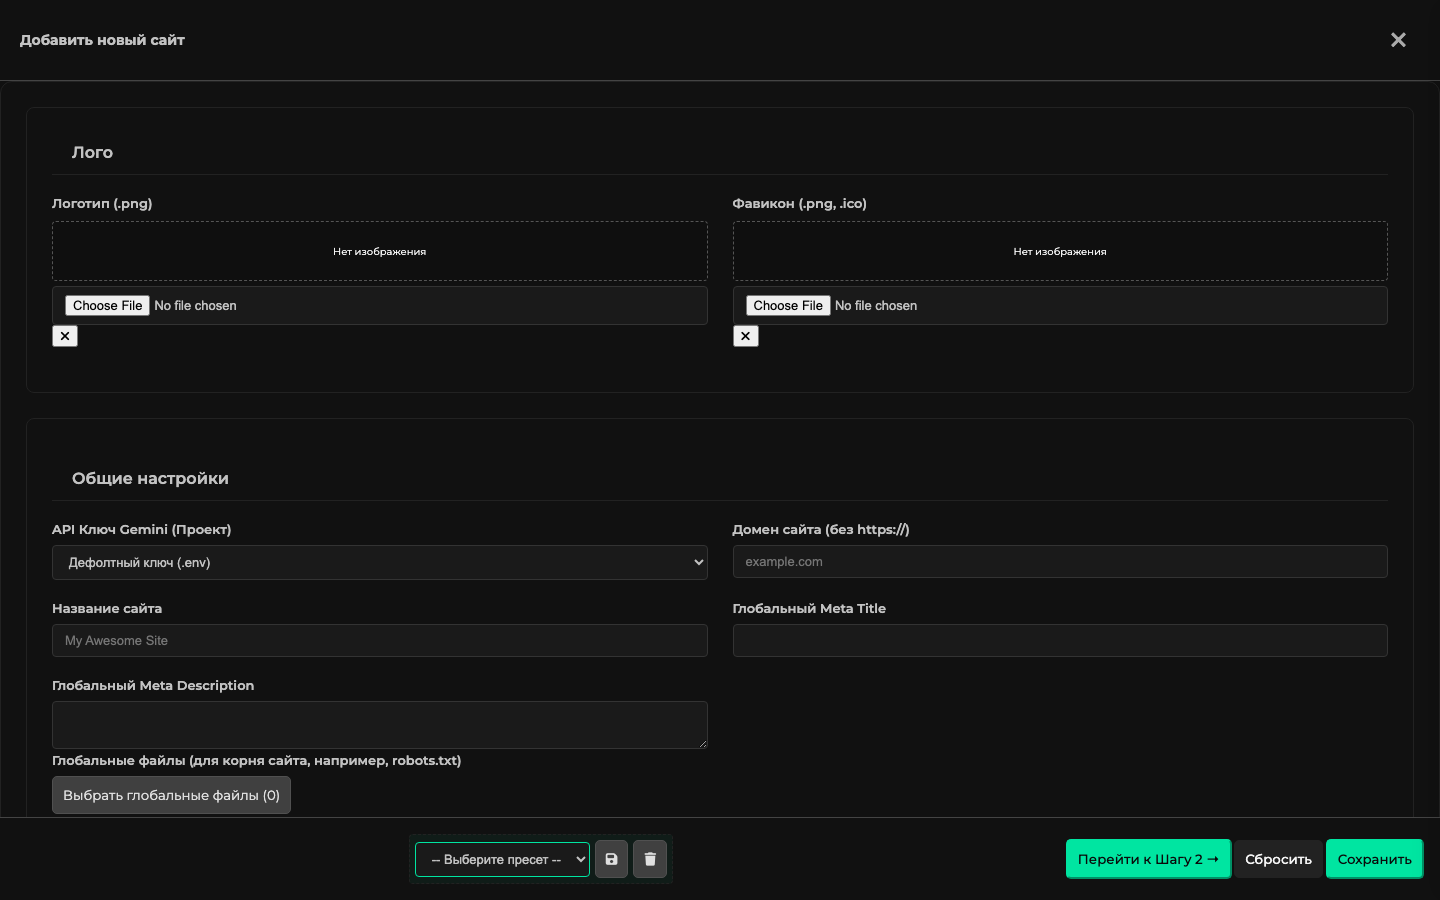
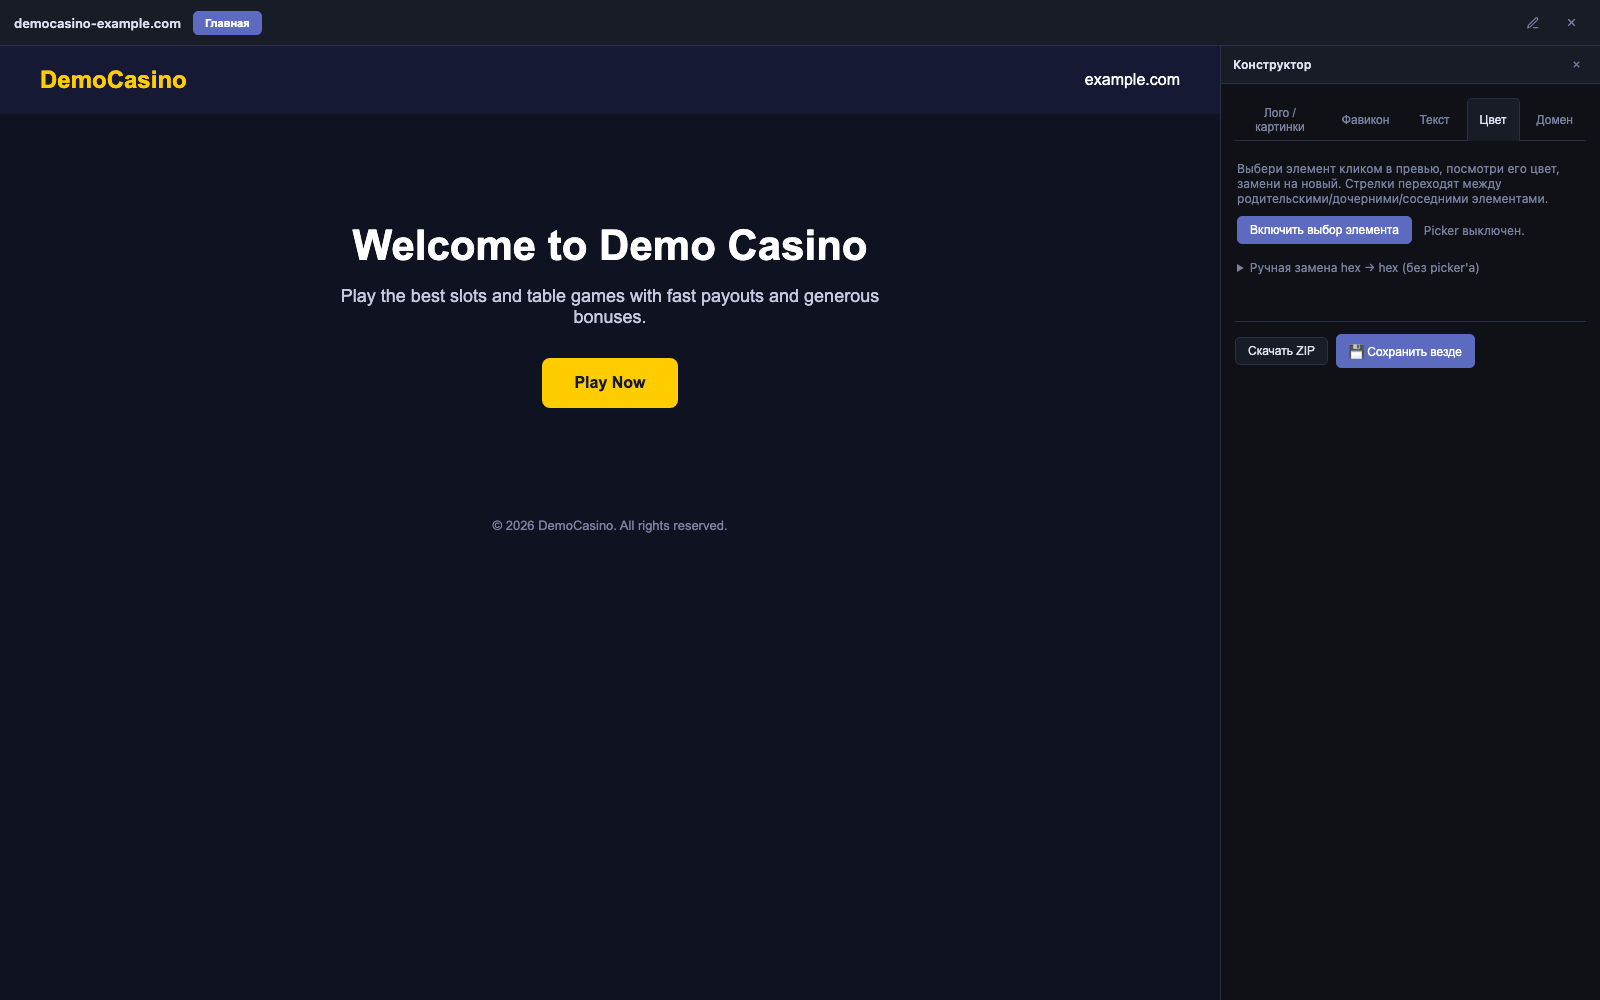
Replace site-creation card with real site-crm uniqualization screenshots
The previous card used diffServ's AI generator UI, not the actual
site-crm tool. Swapped in real screenshots (project tabs, color picker,
domain replace, text find/replace) and rewrote the description to match
what site-crm actually does: Google Sheets-driven multi-project CRM for
bulk site uniqualization with SEO/sitemap checks and Drive sync.

diff --git a/index.html b/index.html
@@ -459,41 +459,46 @@
           </div>
         </div>
         <div class="auto-card auto-card-wide">
-          <div class="auto-card-visual grad-indigo has-screenshot" data-images="./img/projects/sitegen-3.png,./img/projects/sitegen-2.png,./img/projects/sitegen-1.png">
+          <div class="auto-card-visual grad-indigo has-screenshot" data-images="./img/projects/sitegen-2.png,./img/projects/sitegen-3.png,./img/projects/sitegen-4.png,./img/projects/sitegen-1.png">
           </div>
           <div class="auto-card-pipeline">
             <div class="pipeline">
-              <div class="p-step" data-ua="Налаштування">Site Setup</div>
+              <div class="p-step" data-ua="Google Sheets">Google Sheets</div>
               <div class="p-arrow">→</div>
-              <div class="p-step" data-ua="Дизайн і контент">Design & Content</div>
+              <div class="p-step" data-ua="Живе редагування">Live Editing</div>
               <div class="p-arrow">→</div>
-              <div class="p-step" data-ua="AI-генерація">AI Generation</div>
+              <div class="p-step" data-ua="SEO і sitemap перевірка">SEO & Sitemap Check</div>
               <div class="p-arrow">→</div>
-              <div class="p-step p-end" data-ua="Готовий сайт">Live Site</div>
+              <div class="p-step p-end" data-ua="Google Drive">Google Drive</div>
             </div>
           </div>
           <div class="auto-card-content">
             <div class="auto-card-badges">
               <span class="badge badge-nda" data-ua="NDA · Продакшн">NDA · Production</span>
-              <span class="badge badge-stack">Node.js</span>
-              <span class="badge badge-stack">Express</span>
-              <span class="badge badge-stack">Gemini API</span>
+              <span class="badge badge-stack">Python</span>
+              <span class="badge badge-stack">Flask</span>
+              <span class="badge badge-stack">Google Sheets API</span>
+              <span class="badge badge-stack">Google Drive API</span>
               <span class="badge badge-stack">Docker</span>
             </div>
-            <h3 data-ua="Панель для створення сайтів">Site Creation Panel</h3>
-            <p data-ua="Панель, де сайт збирається покроково: домен і назва, логотип і фавікон, кольорова схема і шрифти, фонові зображення - а тексти й структуру сторінок дописує AI. Кожен користувач працює зі своїм списком проєктів, може дублювати, масово видаляти чи переглядати готовий сайт прямо в панелі перед публікацією.">A panel where a site is assembled step by step - domain and name, logo and favicon, color scheme and fonts, background images - while AI fills in the page text and structure. Each user works with their own project list, can duplicate, bulk-delete, or preview the finished site right inside the panel before it goes live.</p>
+            <h3 data-ua="CRM для масової уніфікації сайтів">Bulk Site Uniqualization CRM</h3>
+            <p data-ua="Багатопроєктна CRM, де кожен рядок Google Таблиці - це сайт, а кожна вкладка - окрема ніша чи бренд (десятки таблиць одночасно). Відкриваю будь-який архів сайту у живому прев'ю і прямо там міняю логотип і фавікон, шукаю й заміняю текст одразу в усіх HTML-файлах, клікаю по будь-якому елементу на сторінці, щоб змінити саме його колір, або переклеюю домен по всьому архіву (HTML, CSS, JS, XML, JSON, SVG). Кожна зміна сама зберігається на Google Drive і оновлює рядок у таблиці. Окремо є перевірка SEO і sitemap з відкатом версій.">A multi-project CRM where every row of a Google Sheet is a site, and every tab is a separate niche or brand (dozens of sheets running at once). I open any site archive in a live preview and, right inside it, swap the logo and favicon, find-and-replace text across every HTML file at once, click any element on the page to change just its color, or rebrand the domain across the whole archive (HTML, CSS, JS, XML, JSON, SVG). Every change saves itself back to Google Drive and updates the sheet row. There's also a separate SEO and sitemap check with version rollback.</p>
             <div class="auto-card-metrics">
               <div class="metric">
-                <span class="metric-val">Step-by-step</span>
-                <span class="metric-label" data-ua="налаштування без розробника">setup with no developer needed</span>
+                <span class="metric-val">10+</span>
+                <span class="metric-label" data-ua="проєктних таблиць одночасно">project sheets at once</span>
               </div>
               <div class="metric">
-                <span class="metric-val">AI</span>
-                <span class="metric-label" data-ua="генерація текстів і структури">content & structure generation</span>
+                <span class="metric-val">Live Picker</span>
+                <span class="metric-label" data-ua="зміна кольору по кліку на елемент">click-to-recolor any element</span>
               </div>
               <div class="metric">
-                <span class="metric-val">Live Preview</span>
-                <span class="metric-label" data-ua="перегляд до публікації">before publishing</span>
+                <span class="metric-val">Bulk</span>
+                <span class="metric-label" data-ua="заміна тексту й домену по всьому архіву">text & domain replace across archive</span>
+              </div>
+              <div class="metric">
+                <span class="metric-val">Auto-sync</span>
+                <span class="metric-label" data-ua="Google Drive і Sheets">Google Drive & Sheets</span>
               </div>
             </div>
           </div>
